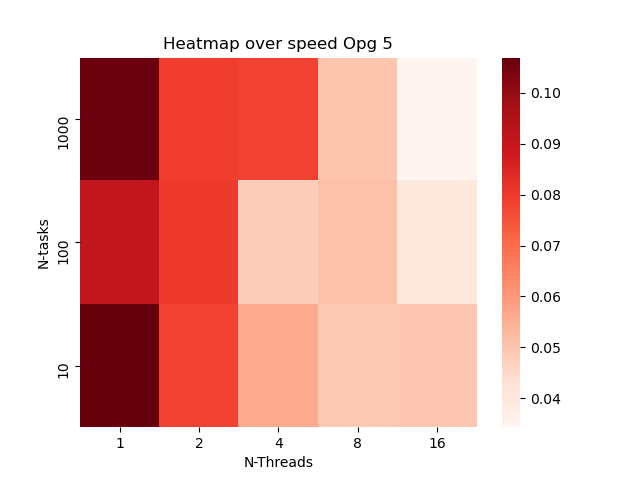
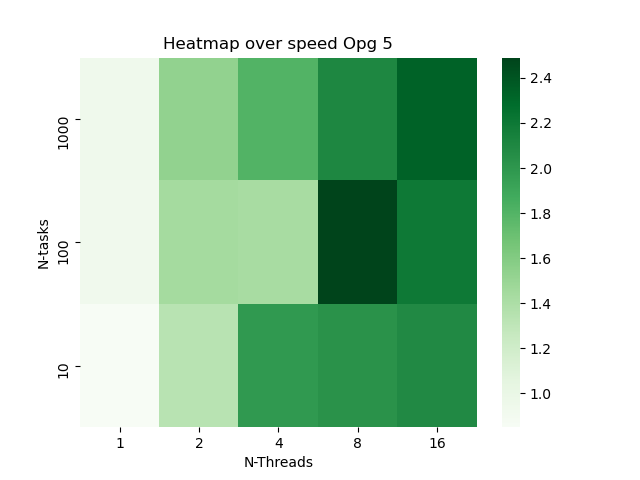
fix

diff --git a/bin/plot4.py b/bin/plot4.py
@@ -14,7 +14,16 @@ data_4 = [
 ]
 
 
-data_5 = [[0.106361, 0.079162, 0.078486, 0.049976, 0.034296], [0.091244, 0.079936, 0.047931, 0.051310, 0.040113], [0.106956, 0.078486, 0.056372, 0.049171, 0.049484]]
+# data_5 = [[0.106361, 0.079162, 0.078486, 0.049976, 0.034296], [0.091244, 0.079936, 0.047931, 0.051310, 0.040113], [0.106956, 0.078486, 0.056372, 0.049171, 0.049484]] # old
+
+data_5 = [
+    [0.94, 1.53, 1.81, 2.11, 2.34],
+    [0.93, 1.44, 1.43, 2.49, 2.20],
+    [0.85, 1.34, 1.99, 2.03, 2.09]    
+]
+
+
+
 
 
 def p(data, t):

diff --git a/src/plot4.py b/src/plot4.py
@@ -14,7 +14,16 @@ data_4 = [
 ]
 
 
-data_5 = [[0.106361, 0.079162, 0.078486, 0.049976, 0.034296], [0.091244, 0.079936, 0.047931, 0.051310, 0.040113], [0.106956, 0.078486, 0.056372, 0.049171, 0.049484]]
+# data_5 = [[0.106361, 0.079162, 0.078486, 0.049976, 0.034296], [0.091244, 0.079936, 0.047931, 0.051310, 0.040113], [0.106956, 0.078486, 0.056372, 0.049171, 0.049484]] # old
+
+data_5 = [
+    [0.94, 1.53, 1.81, 2.11, 2.34],
+    [0.93, 1.44, 1.43, 2.49, 2.20],
+    [0.85, 1.34, 1.99, 2.03, 2.09]    
+]
+
+
+
 
 
 def p(data, t):
